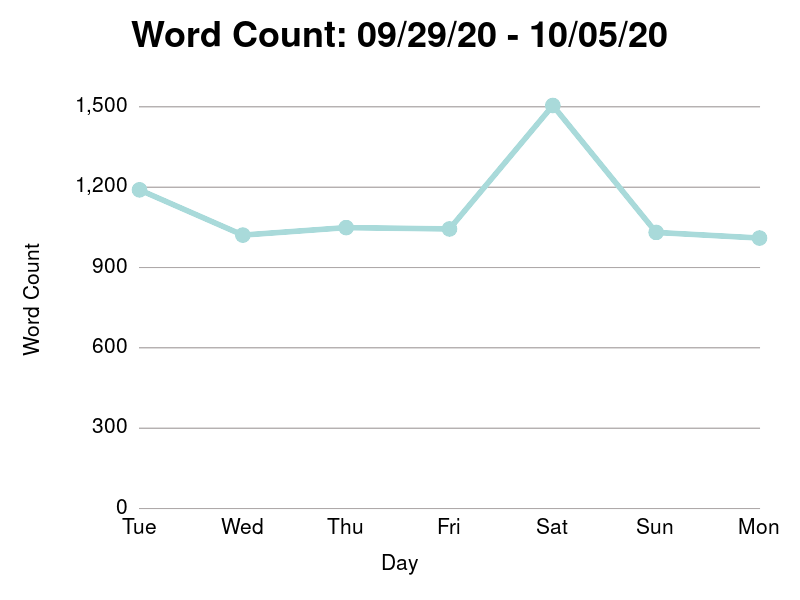
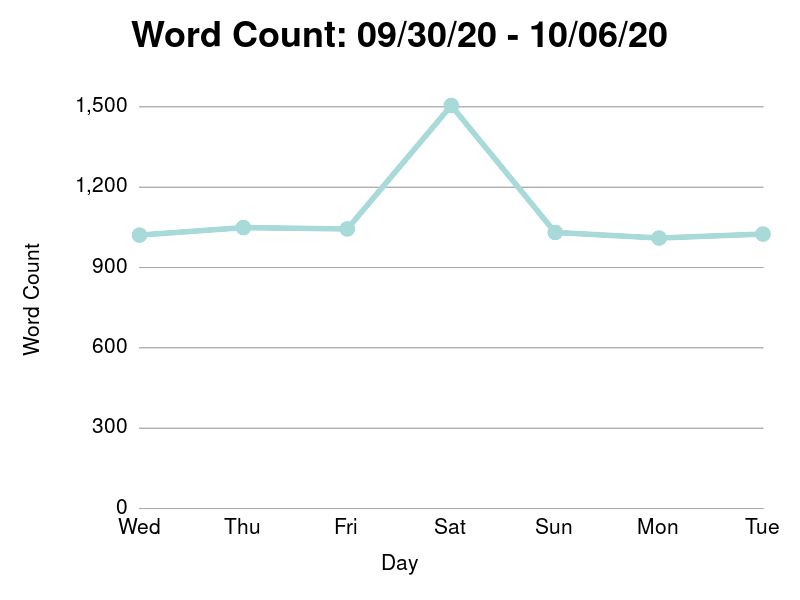
Post

diff --git a/entries/2020-10-06.md b/entries/2020-10-06.md
@@ -1,0 +1,145 @@
+---
+title: an evening walk, chili, and piano lessons
+---
+
+Dear Journal,
+
+Good morning, everyone.  Happy Tuesday.  I'm intentionally moving a
+little more slowly through the morning routine today.  Pouring a
+second cup of coffee in my favorite mug, I took a extra fifteen
+minutes to stare off into space out the backyard window, check on my
+hard drive migration, send some emails, and surf around on the
+Internet.  Today, I don't have any meetings until after lunch, and I'm
+relishing in the freedom.
+
+After yesterday, I feel like I earned a quiet morning.  Yesterday was
+busy.  Meeting busy.  Talking to people busy.  Listening to people and
+writing down what they say busy.  Perpetual zoom call busy.  A
+bureaucratic gauntlet of a Monday.  I barely had time to shovel some
+soup and mac and cheese into my mouth for lunch, let alone go for a
+walk to soak up the beautiful fall weather.  The end of the work day
+descended without warning, and all of the sudden Marissa and I were
+discussing dinner and evening plans at my computer over a bowl of
+pistachios - her face misted with sweat from her afternoon jog around
+the block.
+
+"We should go for a walk today," she said.  "It's gorgeous out."
+
+I grunted, my eyes rolling to glance at the clock in the corner of my
+monitor.  "I was going to make chili tonight, and I have to make the
+cornbread too," I sighed.  "Is it worth eating a little later?"
+
+"What if I help?" asked Marissa, eagerly.  "I'll do the cornbread."
+
+I leaned forward to get up out of my chair.  "Perfect - let's hit it."
+
+After leashing up the dogs, helping Rodney track down his shoes, and
+throwing a blanket over Miles, we went for a long walk around the
+block.  We bounced from sidewalk to sidewalk, cautiously crossing the
+street to keep our distance from other people with the same idea.
+
+Rodney asked if he could hold Ollie's leash.  After making it clear
+that it was a big responsibility, we agreed.  Rodney wears
+responsibility well - it must be an older sibling thing.  Ollie tested
+him, trying to stop to mark his territory on shrubs or sniff along the
+fence.  Rodney grunted, pulling him along.  "C'mon, _big cheese_," he
+scolded.  "Let's go."
+
+Back at home, I got to work dicing onions, garlic, celery, and ancho
+chillies, combining it all in a stock pot with our second bag of
+thawed barbecue pork.  Marissa threw together the cornbread in a cast
+iron skillet.  With her help, our walk only offset our punctual dinner
+by twenty minutes - we had to wait for everything to simmer anyway.
+We sat at the table and began to inhale pork chili with sour cream,
+corn bread, and good old Wisconsin cheddar.
+
+{% include figure.html filename="2020-10-06-chili.jpg" %}
+
+"Dada, this is _pretty, pretty_ spicy," said Rodney, looking at his
+spoon with a single bulging eye.
+
+"You gotta eat it, dude," I mumbled between chewing, swallowing a
+mouthful.  "Spicy food is good for your belly."
+
+"Good for your belly?" he repeated.
+
+"Sure," I nodded.  "Good for your belly.  Good for your brain too."
+
+I don't have any science to back that up.  Parenting intuition just
+tells me it's good to make kids eat spicy things sometimes, even if
+they're uncomfortable.
+
+After dinner, I cleaned Rodney up and set out the electric piano for
+our music lesson.  Up until yesterday, Rodney knew all but two notes
+in the C scale.  He gingerly hit the keys with his index finger while
+I sang _do-re-mi-fa-so-la..._, my voice trailing off.
+
+"Ready to learn the rest of it?" I asked.  Rodney eagerly squirmed in
+his seat.
+
+I continued on the seventh note.  "_Ti-do!_  See dude?  This one is
+_doh_."
+
+"Two _doh_'s?" laughed Rodney.
+
+"Sure, dude," I said.  "This one up here is _lil' doh_.  And this big
+boy down here is _big doh_."
+
+I had Rodney turn around in his chair.  I alternated between playing
+big _doh_ and little _doh_, making him guess by ear.  I threw in one
+middle C as a curveball.  "That one is _medium_ doh."
+
+"Medium!" shouted Rodney.  "Just like Rodney!"
+
+Pushing my luck, I tried to explain what an _octave_ was.
+
+"So count the steps between big _doh_ and little _doh_," I
+instructed.  In unison, we counted the keys one at a time.  "One, two,
+three, four, five, six... seven."
+
+I scratched my head.  "I think we did something wrong.  Let's start
+over."
+
+"One, two, three, four, five, six, seven, _eight_ - there, that's more
+I like it," I laughed nervously.  "_Eight_ steps."
+
+Rodney stared at me blankly.
+
+"Eight steps is special.  That's an _octave_.  Can you say _octave_?"
+I asked.
+
+"Octave," Rodney repeated.
+
+"An octave is important because..." My explanation cut short, as I
+started to laugh.  Explaining something to a four year old is the
+crucible of knowledge, and not all of my lessons make it out in tact.
+In truth, you don't really understand something until you can explain
+it to a four year old - until you can explain it to Rodney.
+
+"Just remember that word, OK?" I laughed.  "Someday, someone will
+explain to you _why_ it's important."
+
+After each piano lesson, we put on a very fancy piano recital for
+Mom.  Rodney and I briefly reviewed the lesson plan, then we called
+Marissa into the living room.
+
+"One second, sir, I need to find my ticket," she said, pretending to
+scour the living room.  She grandiosely handed Rodney an imaginary
+piece of paper.
+
+With poise, I gave Rodney a regaling introduction.  "First, this
+young, talented pianist will demonstrate the _entire_ _do-re-mi_ scale
+forwards... AND backwards."
+
+Rodney carefully pressed the keys, hitting every note from big _doh_
+to little _doh_.  We clapped.  Feeling like he was the center of
+attention, Rodney continued to feed off the energy, starting an
+electric drum track and mashing the keys wildly.
+
+"This is the improvisational portion of the concert," I announced over
+the noise.
+
+We have a lot of fun with piano lessons.  Sometimes they get a little
+rowdy, but Rodney and I both look forward to them each week.
+
+Thanks for stopping by today.  I hope you have a wonderful day today.
